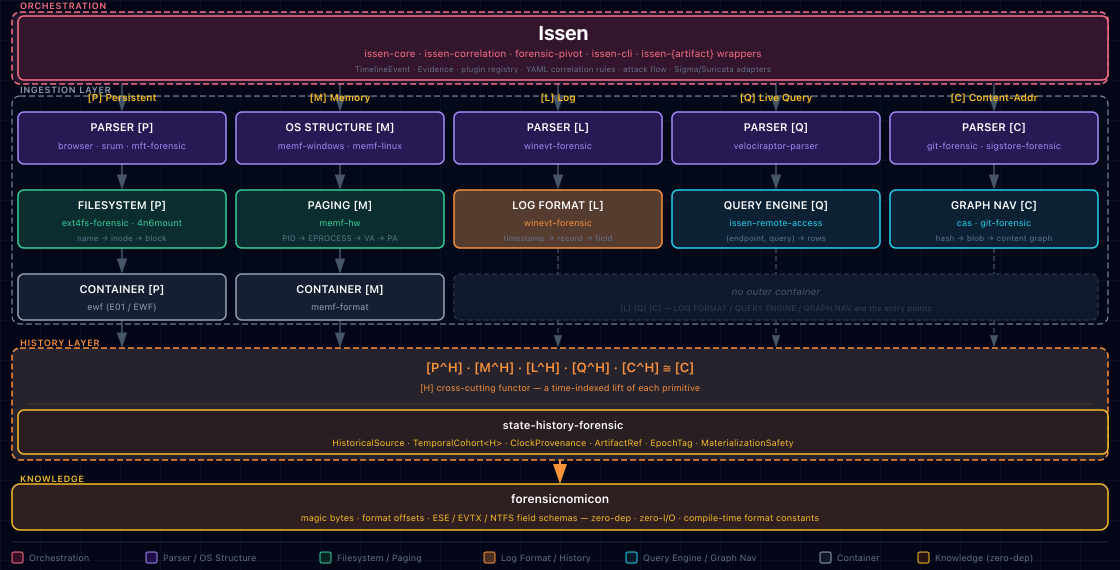
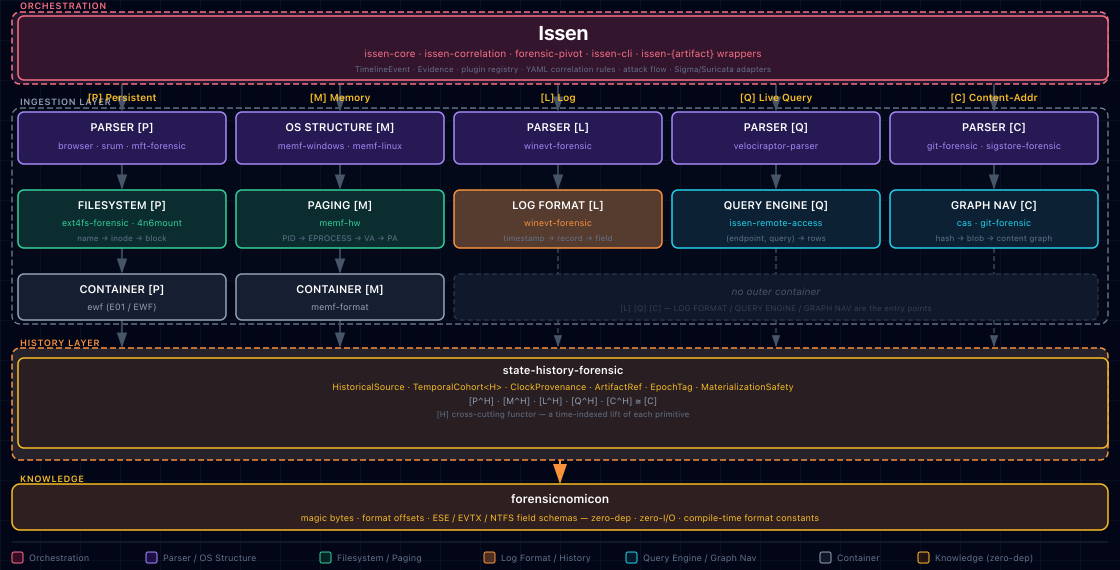
refactor(docs): fix ingestion boundary placement + consolidate history layer content
- Move ingestion boundary from y=96 to y=108 (below column labels, away from ORCH box)
- Expand state-history-forensic sub-box to fill full history layer interior (y=358, h=90)
- Move [P^H]·[M^H]·... and cross-cutting functor lines inside sub-box as grey subtitles
- Remove separator line (no longer needed)
- Re-rasterize architecture.png

Changed region(s): [[0.0, 0.6263, 1.0, 0.8053], [0.0, 0.1491, 0.125, 0.2088]]

diff --git a/docs/architecture-diagram.html b/docs/architecture-diagram.html
@@ -81,9 +81,9 @@
   <rect width="1120" height="570" fill="url(#grid)"/>
 
   <!-- INGESTION LAYER — outer dashed boundary (Parser + Navigation + Container rows) -->
-  <rect x="12" y="96" width="1096" height="228" rx="8"
+  <rect x="12" y="108" width="1096" height="216" rx="8"
         fill="rgba(30,41,59,0.08)" stroke="#94a3b8" stroke-width="1" stroke-dasharray="6,3"/>
-  <text x="20" y="93" fill="#94a3b8" font-size="9" font-weight="600" letter-spacing="0.5">INGESTION LAYER</text>
+  <text x="20" y="105" fill="#94a3b8" font-size="9" font-weight="600" letter-spacing="0.5">INGESTION LAYER</text>
 
   <!-- ════ ARROWS (drawn first, behind all boxes) ════ -->
 
@@ -224,19 +224,14 @@
         fill="rgba(251,146,60,0.1)" stroke="#fb923c" stroke-width="1.5" stroke-dasharray="6,3"/>
   <text x="20" y="346" fill="#fb923c" font-size="9" font-weight="600" letter-spacing="0.5">HISTORY LAYER</text>
 
-  <!-- Implementations -->
-  <text x="560" y="372" fill="#fb923c" font-size="13" font-weight="600" text-anchor="middle">[P^H]  ·  [M^H]  ·  [L^H]  ·  [Q^H]  ·  [C^H] ≅ [C]</text>
-  <text x="560" y="391" fill="#fb923c" font-size="9"  text-anchor="middle">[H] cross-cutting functor — a time-indexed lift of each primitive</text>
-
-  <!-- Separator -->
-  <line x1="28" y1="404" x2="1092" y2="404" stroke="#fb923c" stroke-width="0.5" opacity="0.35"/>
-
-  <!-- state-history-forensic sub-box -->
-  <rect x="18" y="410" width="1090" height="44" rx="6" fill="#0f172a"/>
-  <rect x="18" y="410" width="1090" height="44" rx="6"
+  <!-- state-history-forensic sub-box (fills the full strip interior) -->
+  <rect x="18" y="358" width="1090" height="90" rx="6" fill="#0f172a"/>
+  <rect x="18" y="358" width="1090" height="90" rx="6"
         fill="rgba(120,53,15,0.25)" stroke="#fbbf24" stroke-width="1.5"/>
-  <text x="563" y="429" fill="white"   font-size="11" font-weight="600" text-anchor="middle">state-history-forensic</text>
-  <text x="563" y="446" fill="#fbbf24" font-size="9"  text-anchor="middle">HistoricalSource · TemporalCohort&lt;H&gt; · ClockProvenance · ArtifactRef · EpochTag · MaterializationSafety</text>
+  <text x="563" y="374" fill="white"   font-size="11" font-weight="600" text-anchor="middle">state-history-forensic</text>
+  <text x="563" y="390" fill="#fbbf24" font-size="9"  text-anchor="middle">HistoricalSource · TemporalCohort&lt;H&gt; · ClockProvenance · ArtifactRef · EpochTag · MaterializationSafety</text>
+  <text x="563" y="404" fill="#94a3b8" font-size="9"  text-anchor="middle">[P^H]  ·  [M^H]  ·  [L^H]  ·  [Q^H]  ·  [C^H] ≅ [C]</text>
+  <text x="563" y="417" fill="#64748b" font-size="8"  text-anchor="middle">[H] cross-cutting functor — a time-indexed lift of each primitive</text>
 
   <!-- ════ KNOWLEDGE  y=484, h=46, bottom=530 ════ -->
 